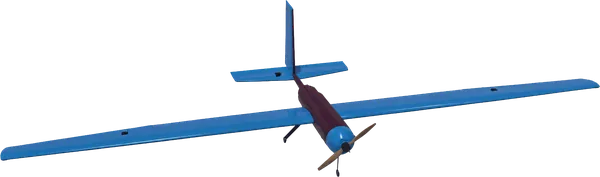
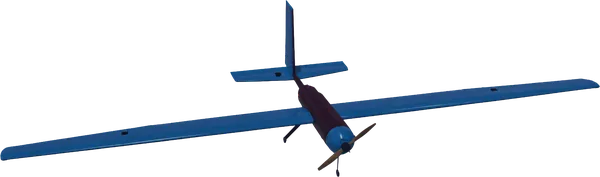
Dim Hotwing in dark mode so it stops reading as a sticker
Hotwing came out of the plain night grade at 91 luminance while Do3soka sat
at 49 and Itay at 64 — comfortably the brightest thing on a near-black floor.
Two things compound that: it is the largest aircraft on screen by area, and
being a DOM overlay it receives none of the scene's fog, so unlike the 3D
geometry around it nothing softens it with distance. A big, bright, perfectly
crisp shape on a dark background is the cutout look.

Its own dark override now pulls it to 63, level with Itay, via a steeper
gamma, more ambient in the darks and lower exposure. Light mode is untouched
at 119, since it reads correctly on the pale floor.

Also tried seating the manufactured edge halo — the rim the 3x downscale
creates by averaging bright wing pixels with empty space — toward the scene
ambient. Measured effect was 43.1 -> 43.0 luminance, because those edge
pixels already sit at the ambient's own brightness, so there was nothing to
move them toward. Removed rather than left in as machinery that does nothing.

Changed region(s): [[0.0, 0.0282, 1.0, 0.9322], [0.51, 0.9322, 0.54, 0.9605]]

diff --git a/src/data/achievements.ts b/src/data/achievements.ts
@@ -425,15 +425,15 @@ export const achievements: Achievement[] = [
         height: 177,
         alongPoles: 0,
         lateralOffset: -4.0,
-        forwardOffset: 3.4,
+        forwardOffset: 2.8,
         displayWidth: 205,
         shadowRadius: 2.9,
         groundOffset: 0,
         // ⬅ HOTWING'S OWN SHADOW DIALS. Independent of Do3soka and Itay, which
         // follow the scene-wide SHADOW values in sceneConfig. Adjust these two
         // freely without touching the others.
-        shadowOpacityDark: 0.7,
-        shadowOpacityLight: 0.25,
+        shadowOpacityDark: 9.0,
+        shadowOpacityLight: 2.5,
       },
     ],
   },

diff --git a/art-source/grade.py b/art-source/grade.py
@@ -40,11 +40,14 @@ LIGHT = dict(sat=0.97, gamma=1.0, ambient=np.array([0x8a,0x93,0xb0], np.float32)
 # mode only, since on the pale floor it reads fine.
 OVERRIDES = {
     ("do3soka", "dark"): dict(gamma=1.02, exposure=1.10),
-    # Hotwing takes the plain night grade — NOT Do3soka's dark override. That
-    # override exists purely to rescue a dark red airframe that was vanishing
-    # into the floor; applying a brightening curve to an already-bright sky-blue
-    # aircraft would leave it glowing at ~119 luminance next to 49 and 64,
-    # reading as lit by something the scene doesn't have.
+    # Hotwing needs the OPPOSITE of Do3soka's dark override. Do3soka is a dark
+    # red airframe that had to be rescued from vanishing; Hotwing is bright
+    # sky-blue and starts at 119 luminance, so even the plain night grade left
+    # it at 91 against 49 and 64 — the brightest thing on a near-black floor,
+    # with a crisp rim and no fog on it (DOM overlays don't receive the scene's
+    # fog the way the 3D geometry does). That combination is exactly what reads
+    # as a sticker. Pulled down to ~63, level with Itay, it belongs to the scene.
+    ("hotwing", "dark"): dict(gamma=1.30, tint=0.50, exposure=0.72),
     # ...but it is a BRIGHT sky-blue airframe that already sits light, so in
     # light mode it needs none of the lifting the darker aircraft do. Left
     # essentially as rendered: de-fringed, a whisper of ambient, nothing else.
@@ -68,6 +71,8 @@ for name, size, q in (
         out = Image.fromarray(
             np.concatenate([rgb, alpha * 255.0], -1).astype(np.uint8), "RGBA")
         out.thumbnail(size, Image.LANCZOS)
+
+
         out.save(f"public/history/vehicles/{name}{suffix}.webp", "WEBP",
                  quality=q, method=6)
         print(f"  {name}{suffix}: {out.size} luminance {(rgb@L)[solid].mean():.1f}")
